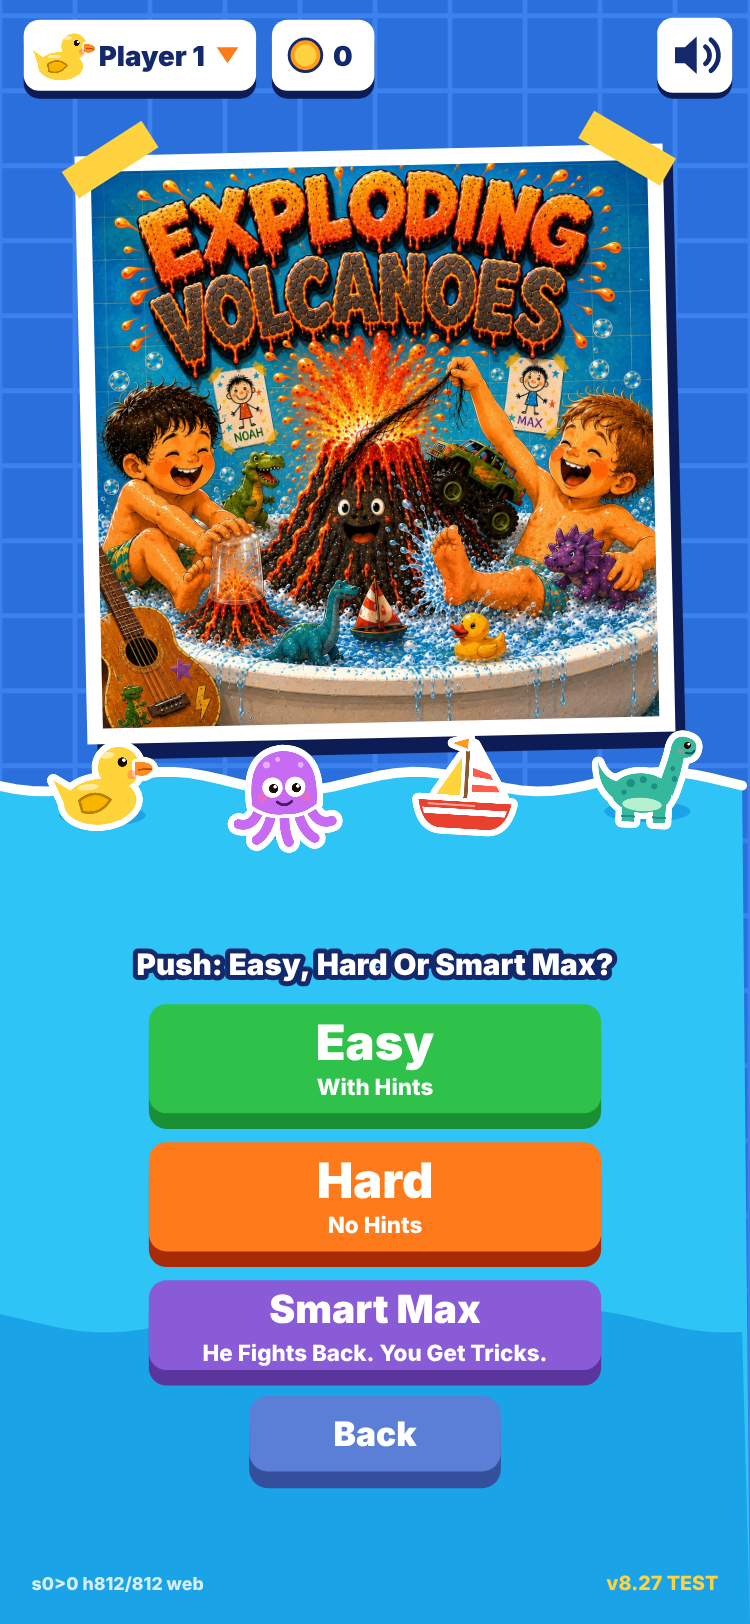
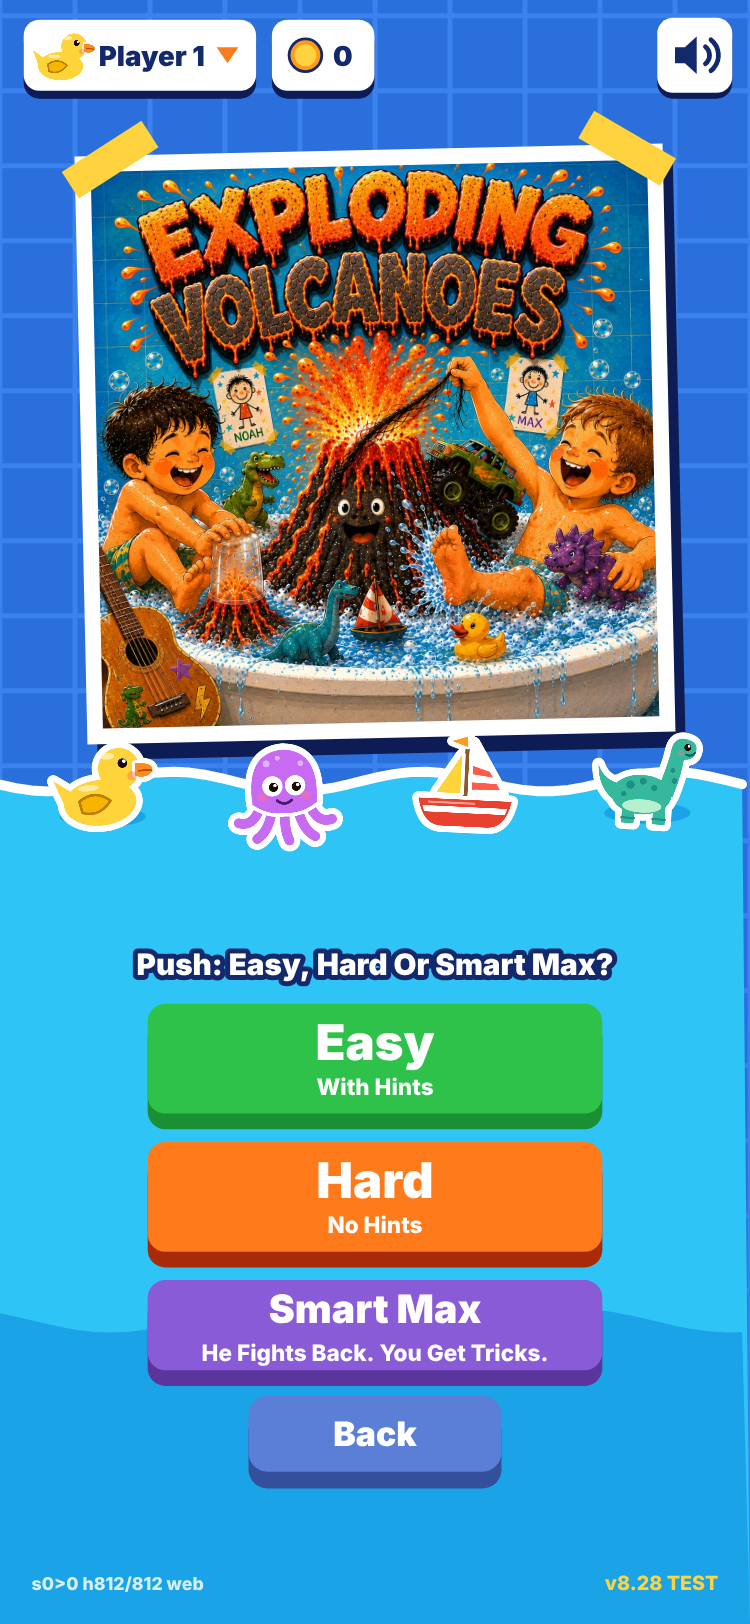
Test v8.28: one My Toys button; Noah's Toys (Outfits, Bath Toys, Tricks) and Max's Toys (powers)
Claude-Session: https://claude.ai/code/session_01TADmkriX36ZQncsrqvcFv9

diff --git a/game-test.js b/game-test.js
@@ -7,7 +7,7 @@
    and a layout that keeps the wall decor above the tub at every screen shape.
    Rules, scoring, difficulty table, round structure and the song are unchanged.
    The game logic and motion helpers are carried over from fable-supreme; every draw call is new. */
-const VERSION='v8.27'; // shown small in the corner of the start screen; bump it with every change
+const VERSION='v8.28'; // shown small in the corner of the start screen; bump it with every change
 let card2=null,card3=null,pressId=0,hardMode=false; // extra buttons; Easy / Hard (swipe only)
 let homeAsk=0,homeWasPaused=false; // "Go Home?" question during play (uiT-based open time + 1; 0 = closed)
 let pfToy=0; // toy picker for the current player (time it opened, 0 = closed)
@@ -1255,11 +1255,36 @@ function drawBadges(){const age=uiT-bdgT0,cw=336,ch=470,NB=BADGES.length/6,NP=NB
  const x0=W/2-(96+12+176)/2,yb=cy+ch-72,nxt=bdgPg===NB/2?'Max’s Badges':bdgPg<NB?'More Badges':bdgPg===NB?'Next: Stats':bdgPg<NP?'Max’s Stats':'Done';button(x0,yb,96,48,bdgPg===1?'Close':'Back',()=>{bdgPg--;},{size:16,id:7,col:'#5b7fd6',colD:'#34509c',colP:'#4a6cc0'});
  button(x0+108,yb,176,48,nxt,()=>{bdgPg=bdgPg<NP?bdgPg+1:0;},{size:19});cardEnd();}
 // ── MY TOYS (start screen): the player's 12-spot lineup, every toy in the game, and the shop ──
-function openToys(){toysT0=uiT||.001;selSlot=-1;selToy=null;toyPg=0;}
+// MY TOYS MENU (v8.28, Derek): one My Toys button on the start screen. It opens a choice, Noah's Toys or Max's Toys.
+// Noah's Toys: Outfits (the dress-up card), Bath Toys (the lineup and shop; "the current toys") and Tricks. Max's Toys: his powers.
+// tmPg: 0 = the Bath Toys card itself, 1 = Noah or Max, 2 = Noah's three, 3 = Max's powers, 4 = Noah's tricks.
+let tmPg=0,tmSel=null;
+function openToys(){toysT0=uiT||.001;tmPg=1;tmSel=null;selSlot=-1;selToy=null;toyPg=0;}
+function tmGo(pg){tmPg=pg;tmSel=null;toysT0=uiT||.001;}
+function drawToyMenu(){const q=PF.list[PF.cur],B={col:'#5b7fd6',colD:'#34509c',colP:'#4a6cc0'};
+ if(tmPg===1){const cw=324,ch=330,{cx,cy}=cardBegin(cw,ch,'My Toys',uiT-toysT0);body('Whose toys?',cy+88,15);
+  pickBtn((W-256)/2,cy+108,256,62,'Noah’s Toys','Outfits, Bath Toys, Tricks',()=>tmGo(2),0);
+  pickBtn((W-256)/2,cy+184,256,62,'Max’s Toys','His Blocking Powers',()=>tmGo(3),2,'#e08a00','#a85f24','#c97800');
+  button((W-160)/2,cy+ch-62,160,42,'Close',()=>{toysT0=0;tmPg=0;},{size:16,id:7,...B});cardEnd();return;}
+ if(tmPg===2){const cw=324,ch=398,{cx,cy}=cardBegin(cw,ch,'Noah’s Toys',uiT-toysT0);body('What do you want to see?',cy+88,15);
+  pickBtn((W-256)/2,cy+108,256,58,'Outfits','What Noah Wears',()=>{toysT0=0;tmPg=0;openNoah();},0,'#e0457a','#a3264f','#c93a6a');
+  pickBtn((W-256)/2,cy+178,256,58,'Bath Toys','The Toys You Throw',()=>tmGo(0),2);
+  pickBtn((W-256)/2,cy+248,256,58,'Tricks','For Smart Max And Multiplayer',()=>tmGo(4),21,'#8a5bd6','#5a359c','#7648c2');
+  button((W-160)/2,cy+ch-62,160,42,'Back',()=>tmGo(1),{size:16,id:7,...B});cardEnd();return;}
+ // a stock card: Max's powers, or Noah's tricks. Tap one to read about it; Buy adds one for coins.
+ const mx=tmPg===3,LIST=mx?POW:TRK,rows=Math.ceil(LIST.length/4),cw=336,ch=mx?470:376,{cx,cy}=cardBegin(cw,ch,mx?'Max’s Toys':'Noah’s Tricks',uiT-toysT0);
+ coin(cx+26,cy+80,9);text(q.coins+' Coins',cx+41,cy+81,15,C.navy,{a:'left'});text(mx?'His Blocking Powers':'They Change Your Next Throw',cx+cw-18,cy+81,11,'#4a6fc4',{a:'right',w:800});
+ LIST.forEach((pw,n)=>{const k=pw[0],nc=Math.min(4,LIST.length),x=cx+(cw-nc*80+6)/2+(n%4)*80,y=cy+100+(n/4|0)*94,sel=tmSel===k,id=160+n;if(sel){rr(x-3,y-3,80,94,10);fill(C.lava);}rr(x,y,74,88,8);fill(sel?'#fff3bf':'#eef4fd');
+  X.save();X.translate(x+37,y+29+(sel?Math.sin(NOW*6)*1.5:0));powIcon(k,16);X.restore();text(pw[1],x+37,y+60,pw[1].length>11?8.2:pw[1].length>8?9.2:10.5,C.navy,{w:800});text('x'+q.pw[k],x+37,y+75,12,q.pw[k]>0?C.greenD:'#7c879f');
+  hits.push({x,y,w:74,h:88,act:()=>{tmSel=k;sfxTick();},key:uiKey,id});});
+ const my=cy+100+rows*94+16,can=tmSel&&q.coins>=POW_PRICE;body(tmSel?POWDESC[tmSel]:mx?'Tap a power to see what it does.':'Tap a trick to see what it does.',my,13.5);
+ text(tmSel?(can?'Buy one more for '+POW_PRICE+' coins?':'One more costs '+POW_PRICE+' coins. You need '+(POW_PRICE-q.coins)+' more.'):mx?'You pack three before a game as Max. Win games to earn more.':'You pack three before a game. Win games to earn more.',W/2,my+20,11,'#4a6fc4',{w:800});
+ const x0=W/2-(104+12+164)/2,yb=cy+ch-70;button(x0,yb,104,46,'Back',()=>tmGo(mx?1:2),{size:16,id:7,...B});
+ button(x0+116,yb,164,46,'Buy',()=>{const k=tmSel;if(!k||q.coins<POW_PRICE)return;q.coins-=POW_PRICE;q.pw[k]++;pfSave();sfxFanfare();},{size:19,id:19,col:can?'#e08a00':'#aab4cc',colD:can?'#a85f24':'#8793ad',colP:can?'#c97800':'#aab4cc'});cardEnd();}
 function toyPlace(em,i){const q=PF.list[PF.cur],L=q.line,j=L.indexOf(em);if(j>=0)L[j]=L[i];L[i]=em;pfSave();selSlot=-1;selToy=null;}
 function toyBuy(){const q=PF.list[PF.cur],em=selToy,pr=priceOf(em);if(!em||owns(q,em)||q.coins<pr)return;q.coins-=pr;q.owned.push(em);pfSave();sfxFanfare();
  {const rest=ALL_TOYS.filter(e=>!q.line.includes(e)),i=rest.filter(e=>owns(q,e)).indexOf(em);toyPg=i<0?0:Math.floor(i/8);}} // jump to the page the new toy is now on (owned toys are listed first, so normally page 1)
-function drawMyToys(){const q=PF.list[PF.cur],cw=344,ch=502,{cx,cy}=cardBegin(cw,ch,'My Toys',uiT-toysT0),L=q.line;
+function drawMyToys(){const q=PF.list[PF.cur],cw=344,ch=502,{cx,cy}=cardBegin(cw,ch,'Bath Toys',uiT-toysT0),L=q.line;
  coin(cx+26,cy+80,9);text(q.coins+' Coins',cx+41,cy+81,15,C.navy,{a:'left'});text(q.name+'’s Lineup',cx+cw-18,cy+81,12,'#4a6fc4',{a:'right',w:800});
  // the 12 spots
  const sx=cx+(cw-6*52+4)/2;L.forEach((em,i)=>{const x=sx+(i%6)*52,y=cy+96+(i/6|0)*50,sel=i===selSlot,id=40+i;if(sel){rr(x-3,y-3,54,52,9);fill(C.lava);}rr(x,y,48,46,7);fill(sel?'#fff3bf':'#eef4fd');
@@ -1279,7 +1304,7 @@ function drawMyToys(){const q=PF.list[PF.cur],cw=344,ch=502,{cx,cy}=cardBegin(cw
  const own=selToy&&owns(q,selToy),pr=selToy?priceOf(selToy):0,can=selToy&&!own&&q.coins>=pr,nm=selToy?TOYNAME[selToy]||'This Toy':'';
  body(selToy?(own?'Now tap a spot for '+nm+'.':can?'Buy '+nm+' for '+pr+' coins?':nm+': you need '+(pr-q.coins)+' more coins.'):selSlot>=0?'Now tap a toy, or another spot to swap.':'Tap a spot, then tap a toy.',cy+408,13.5);
  const x0=W/2-(80+8+92+8+124)/2,yb=cy+ch-70,B={col:'#5b7fd6',colD:'#34509c',colP:'#4a6cc0'};
- button(x0,yb,80,46,'Close',()=>{toysT0=0;},{size:15,id:7,...B});
+ button(x0,yb,80,46,'Back',()=>tmGo(2),{size:15,id:7,...B});
  button(x0+88,yb,92,46,'Default',()=>{q.line=DEF_LINE.slice();pfSave();selSlot=-1;selToy=null;},{size:15,id:19,col:'#8a5bd6',colD:'#5a359c',colP:'#7648c2'});
  button(x0+188,yb,124,46,'Buy',toyBuy,{size:19,col:can?C.green:'#aab4cc',colD:can?C.greenD:'#8793ad',colP:can?'#27a83f':'#aab4cc'});cardEnd();}
 // ── DRESS NOAH (start screen): buy gear with coins and choose what Noah wears in the game ──
@@ -1306,7 +1331,7 @@ function drawNoah(){const q=PF.list[PF.cur],cw=336,ch=566,{cx,cy}=cardBegin(cw,c
   if(on)check(x+64,y+10);hits.push({x,y,w:74,h:84,act:()=>gearTap(k),key:uiKey,id});});
  const g=GEAR.find(z=>z[0]===selGear),can=g&&q.coins>=g[1];
  body(g?(can?'Buy the '+g[2]+' for '+g[1]+' coins?':g[2]+': you need '+(g[1]-q.coins)+' more coins.'):q.gear.length?'Tap a piece to put it on or take it off.':'Tap a piece to buy it for Noah.',cy+464,13.5);
- const xb=W/2-(104+12+164)/2,yb=cy+ch-70;button(xb,yb,104,46,'Close',()=>{noahT0=0;},{size:16,id:7,col:'#5b7fd6',colD:'#34509c',colP:'#4a6cc0'});
+ const xb=W/2-(104+12+164)/2,yb=cy+ch-70;button(xb,yb,104,46,'Back',()=>{noahT0=0;tmGo(2);},{size:16,id:7,col:'#5b7fd6',colD:'#34509c',colP:'#4a6cc0'});
  button(xb+116,yb,164,46,'Buy',gearBuy,{size:19,col:can?C.green:'#aab4cc',colD:can?C.greenD:'#8793ad',colP:can?'#27a83f':'#aab4cc'});cardEnd();}
 // ── HOW TO PLAY (start screen) ── five pages. The Game (toys, clock, Max, hairball); Two Ways To Play (Push or Swipe is a choice, plus Easy or Hard); Way 1: Push and Way 2: Swipe (a small looping demo and three short steps each); Coins And Toys.
 const HOWTO=[null,
@@ -1587,12 +1612,12 @@ if(TEST&&menuStep===0&&!howTo&&!bdgPg&&!pfOpen&&!toysT0&&!noahT0&&!mpT0&&uiT>.6)
  if(JOIN&&uiT>.9&&!howTo&&!bdgPg&&!pfOpen&&!toysT0&&!noahT0&&!mpT0)joinFromLink();
  if(howTo){drawHowTo();}
  else if(bdgPg){drawBadges();}
- else if(toysT0){drawMyToys();}
+ else if(toysT0){if(tmPg)drawToyMenu();else drawMyToys();}
  else if(noahT0){drawNoah();}
  else if(mpT0){if(mpPg===2)drawPerson();else if(mpPg===1)drawMulti();else drawMultiMenu();}
  else if(pfOpen){if(nameEd)drawNameCard();else if(pfToy)drawToyCard();else if(pfDel)drawDeleteCard();else drawPlayers();}
  else if(menuStep===0){const bh=56,gap=14,mh=46,bk=36,by=ih+34+(bandH-34-SAFEB-bh*2-mh-bk-gap*3)*.5,ry=by+(bh+gap)*2+mh+gap; // step 1 of 2: how to throw. v8: a Multiplayer button sits under Swipe; the small row (at ry) moved down
-  appear(EZ.back((uiT-1)/.45),ry,bk,()=>{button(bx,ry,78,bk,'How To Play',()=>{howTo=1;howT0=uiT;},{size:11,id:3,col:'#8a5bd6',colD:'#5a359c',colP:'#7648c2'});button(bx+82,ry,48,bk,'Badges',()=>{bdgPg=1;bdgT0=uiT;},{size:11,id:4,col:'#12a5a0',colD:'#0b6f6c',colP:'#0e8f8a'});button(bx+134,ry,54,bk,'My Toys',openToys,{size:11,id:18,col:'#e08a00',colD:'#a85f24',colP:'#c97800'});button(bx+192,ry,40,bk,'Noah',openNoah,{size:11,id:22,col:'#e0457a',colD:'#a3264f',colP:'#c93a6a'});});
+  appear(EZ.back((uiT-1)/.45),ry,bk,()=>{button(bx,ry,86,bk,'How To Play',()=>{howTo=1;howT0=uiT;},{size:12,id:3,col:'#8a5bd6',colD:'#5a359c',colP:'#7648c2'});button(bx+90,ry,66,bk,'Badges',()=>{bdgPg=1;bdgT0=uiT;},{size:12,id:4,col:'#12a5a0',colD:'#0b6f6c',colP:'#0e8f8a'});button(bx+160,ry,72,bk,'My Toys',openToys,{size:12,id:18,col:'#e08a00',colD:'#a85f24',colP:'#c97800'});});
   if(uiT>.7)text('Pick A Game',W/2,by-19,15,'#fff',{s:C.navy});
   // v8.19: three games against the computer, then Multiplayer (people only). Noah is the original game, untouched.
   appear(EZ.back((uiT-.7)/.45),by,bh,()=>button(bx,by,bw,bh,'Noah',()=>{menuStep=1;menuT0=uiT;},{size:25,id:0,sub:'Throw The Toys'}));

diff --git a/experiments/fable-v8.md b/experiments/fable-v8.md
@@ -496,4 +496,11 @@ devices is OK (he sets up the account when asked); the one-line privacy and list
   the flick but swimming speed and energy: making his energy much cheaper (`botlogs6/`, fit .2) walls the casual bot
   at rounds 8 to 9 while the "good" bot still never loses, so that bot is faster than a person and is not the target.
   Push is unchanged.
+- v8.28 (TEST ONLY): Derek, start screen: one My Toys button instead of My Toys and Noah, with a second choice of Max
+  Toys or Noah Toys; Max Toys to include his blocking powers; Noah Toys split into Outfits and the game-play toys.
+  The small row is now How To Play, Badges, My Toys. My Toys opens "Whose toys?" (`drawToyMenu`, `tmPg`): **Noah's
+  Toys** leads to Outfits (the Dress Noah card), Bath Toys (the lineup and shop, the old My Toys card) and Tricks;
+  **Max's Toys** shows his seven powers with how many are owned, what each does, and Buy (15 coins). Every card's
+  Close became Back and returns one level up. Added without being asked: the Tricks card (Noah's three tricks had no
+  place to be seen or bought outside the pack card). Not built: outfits for Max.
 
